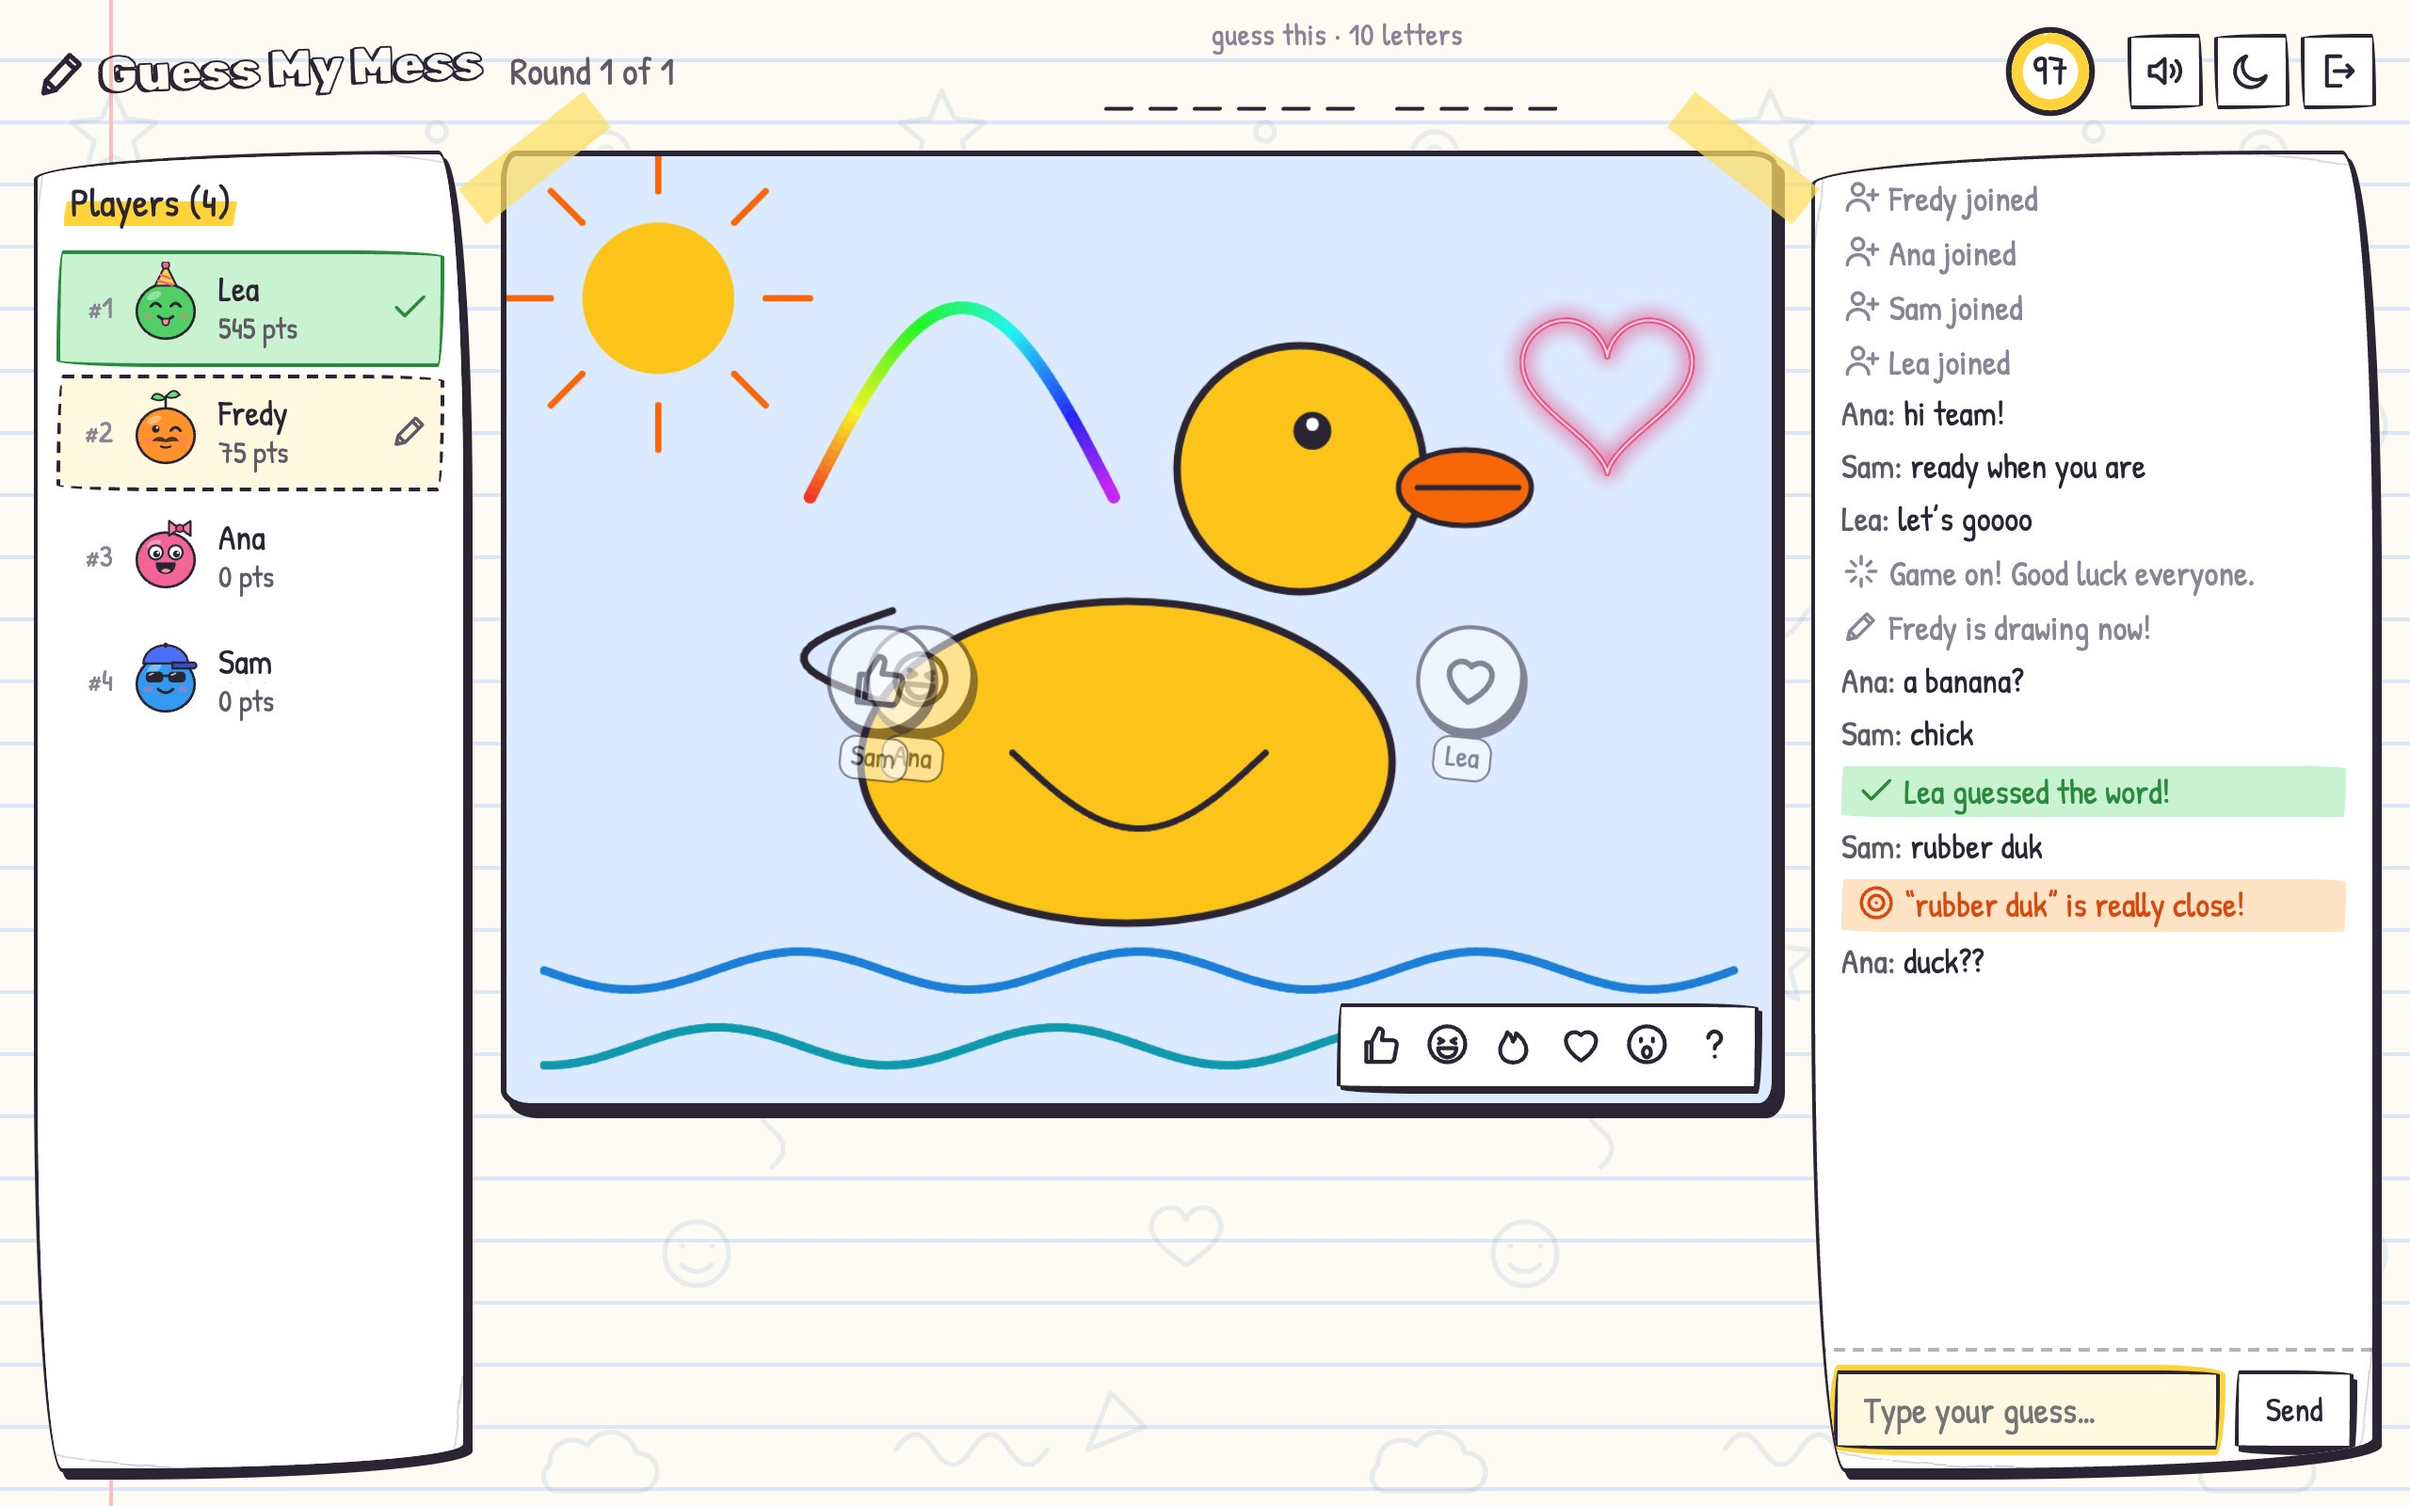
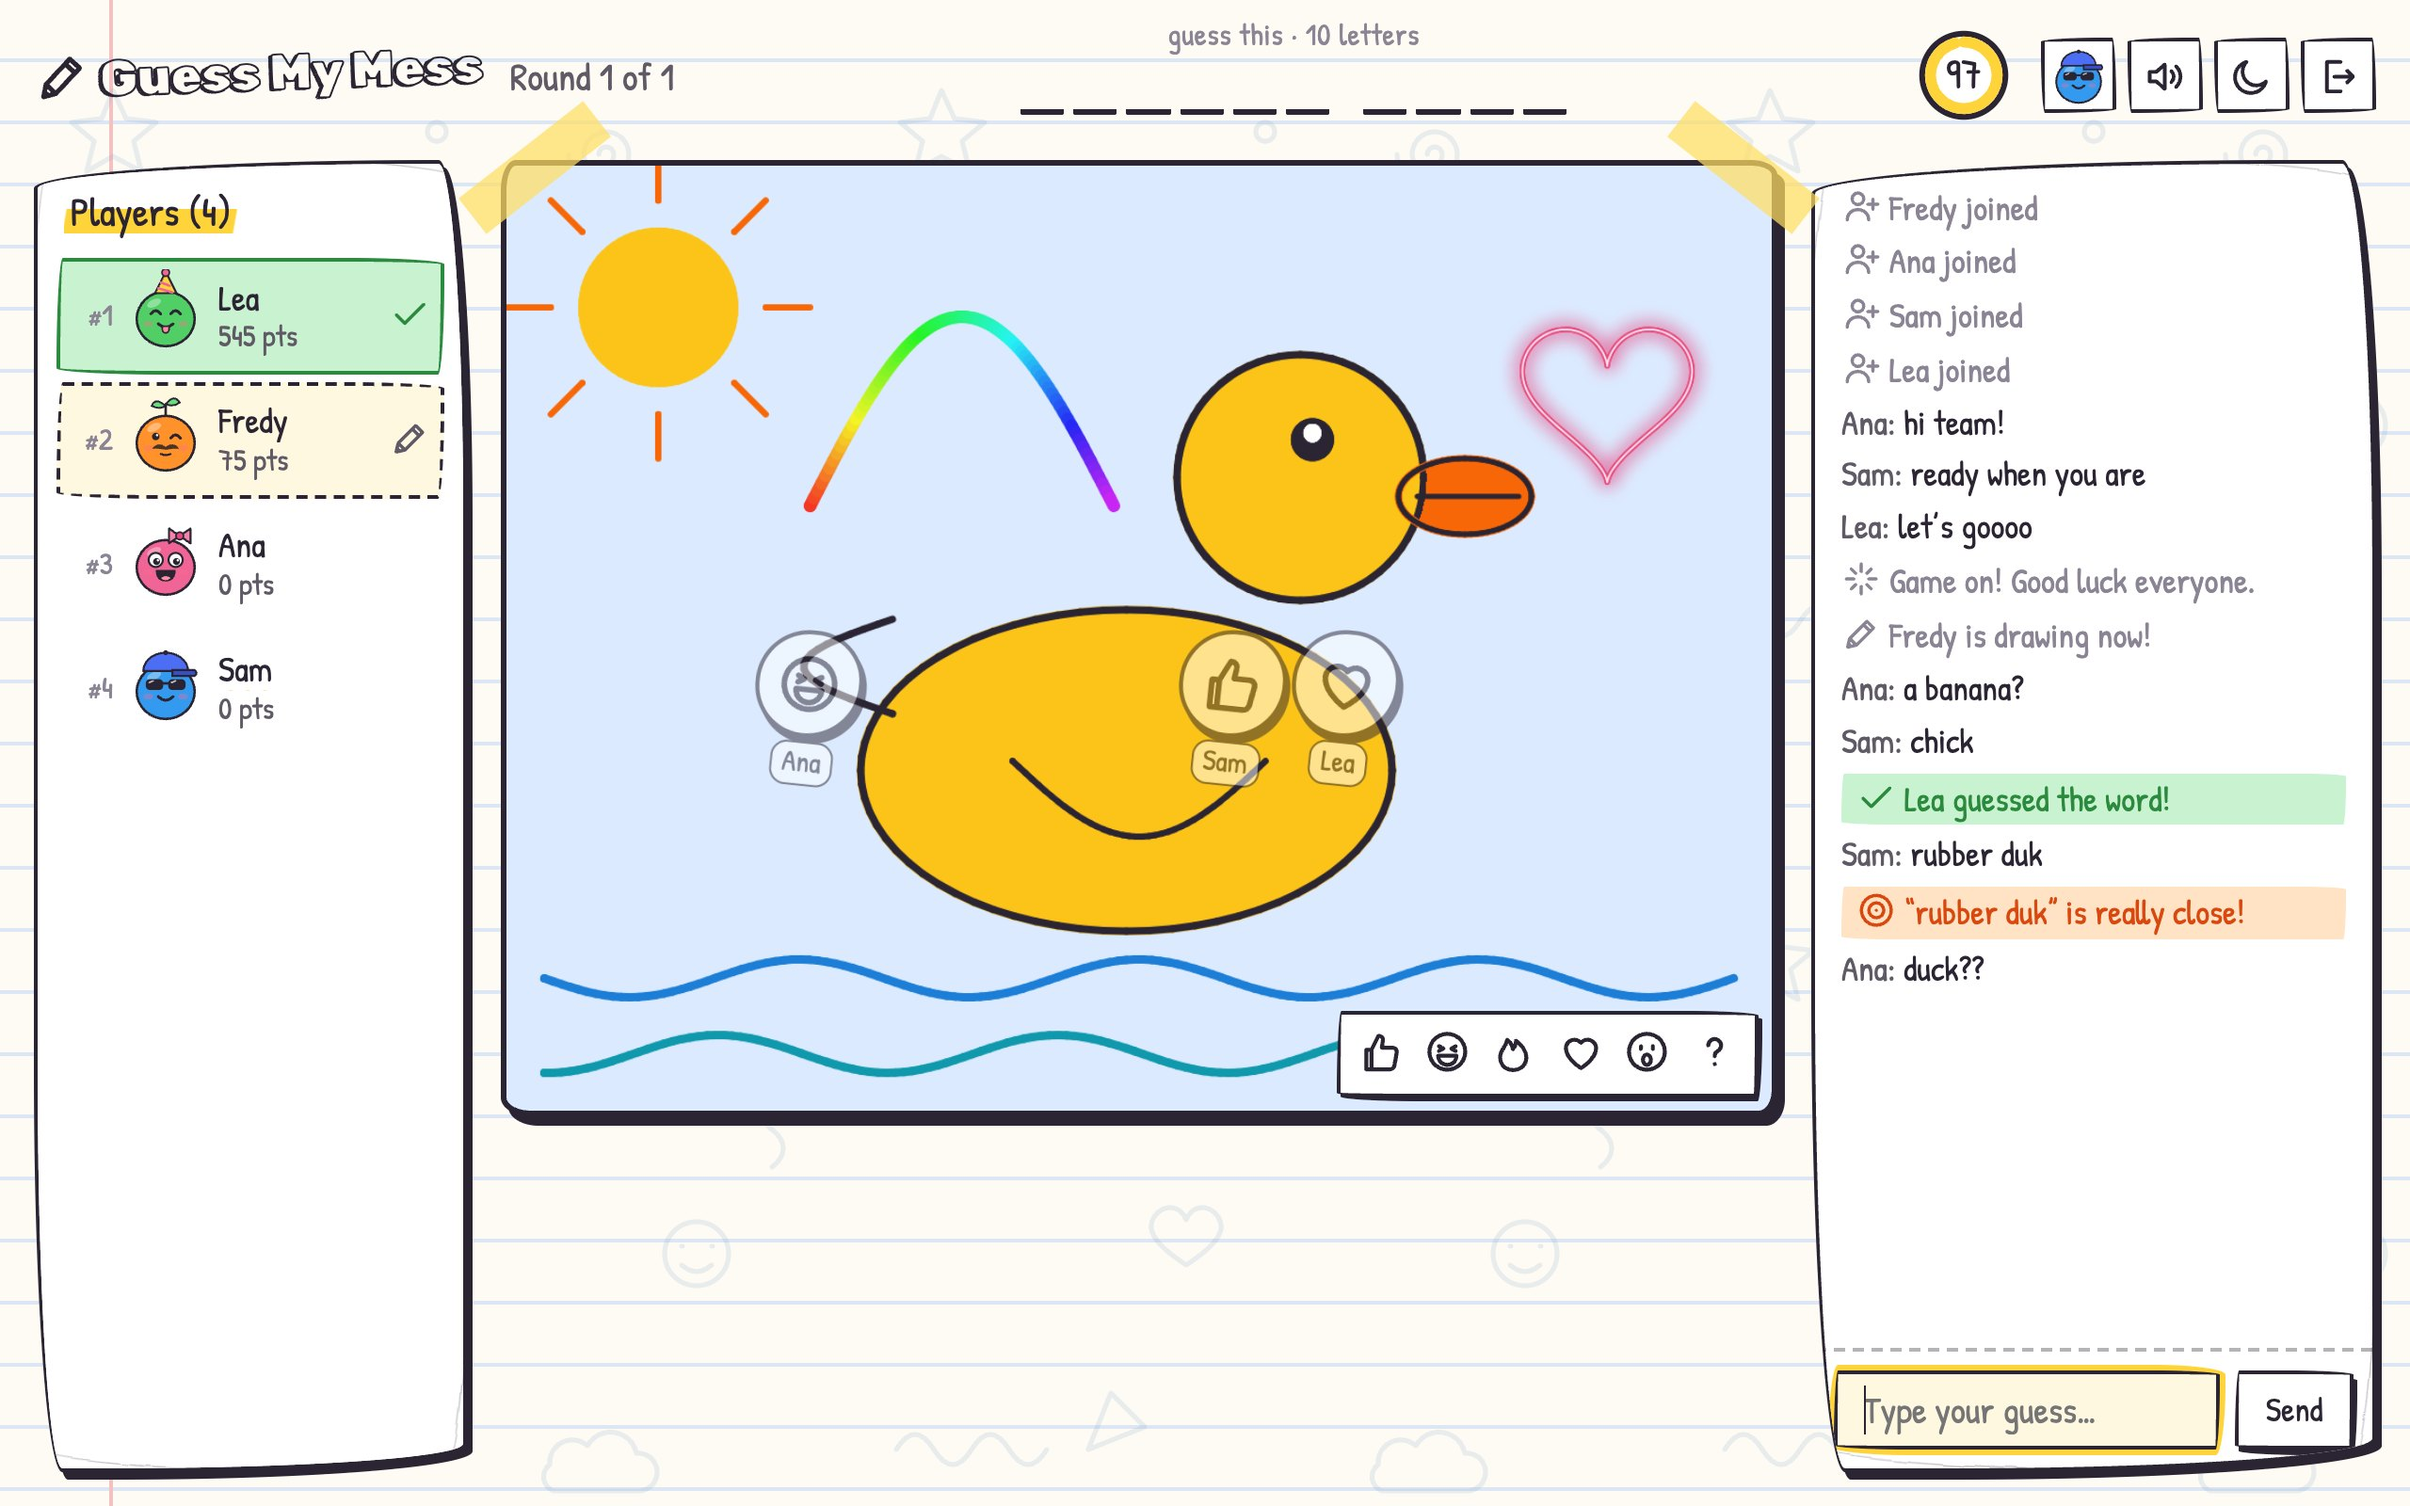
Refresh README screenshots and mention the 24-player rooms
New desktop and phone screenshots of the current UI (letter-slot hints,
the 8-tool toolbox), and the features list notes the 24-player limit and
the 20-player stress test.

diff --git a/README.md b/README.md
@@ -11,8 +11,8 @@ Share a link, play in the browser, no accounts and no server.
 
 [![Deploy to GitHub Pages](https://github.com/fredy-mederos/guess_my_mess/actions/workflows/deploy.yml/badge.svg)](https://github.com/fredy-mederos/guess_my_mess/actions/workflows/deploy.yml)
 
-<img src="docs/screenshots/desktop.jpg" alt="Desktop: guessing a rubber duck drawing while the chat fills with guesses" width="76%">&nbsp;
-<img src="docs/screenshots/mobile.jpg" alt="Phone: drawing a sunflower with every tool in reach" width="21.5%">
+<img src="docs/screenshots/desktop.jpg" alt="Desktop: guessing a rubber duck drawing, one blank per letter, while the chat fills with guesses" width="76%">&nbsp;
+<img src="docs/screenshots/mobile.jpg" alt="Phone: drawing a sunflower with all eight tools and the palette in reach" width="21.5%">
 
 </div>
 
@@ -31,8 +31,9 @@ Share a link, play in the browser, no accounts and no server.
 
 ## Features
 
-- **Private rooms**: every room gets a random, unguessable link. The room ID lives after the `#`, so it never
-  reaches any web server.
+- **Private rooms for up to 24 players**: every room gets a random, unguessable link. The room ID lives after
+  the `#`, so it never reaches any web server. Stress-tested with 20 players on phones, laptops and tablets,
+  including players dropping out and the host reloading mid-game.
 - **Word packs**: 600 hand-picked words each in English, Español, Deutsch, Português and Français (easy, medium
   and hard: objects, animals, food, jobs, idioms and some office and car life). The host's device remembers recent
   words, so they don't come back in the next games.
